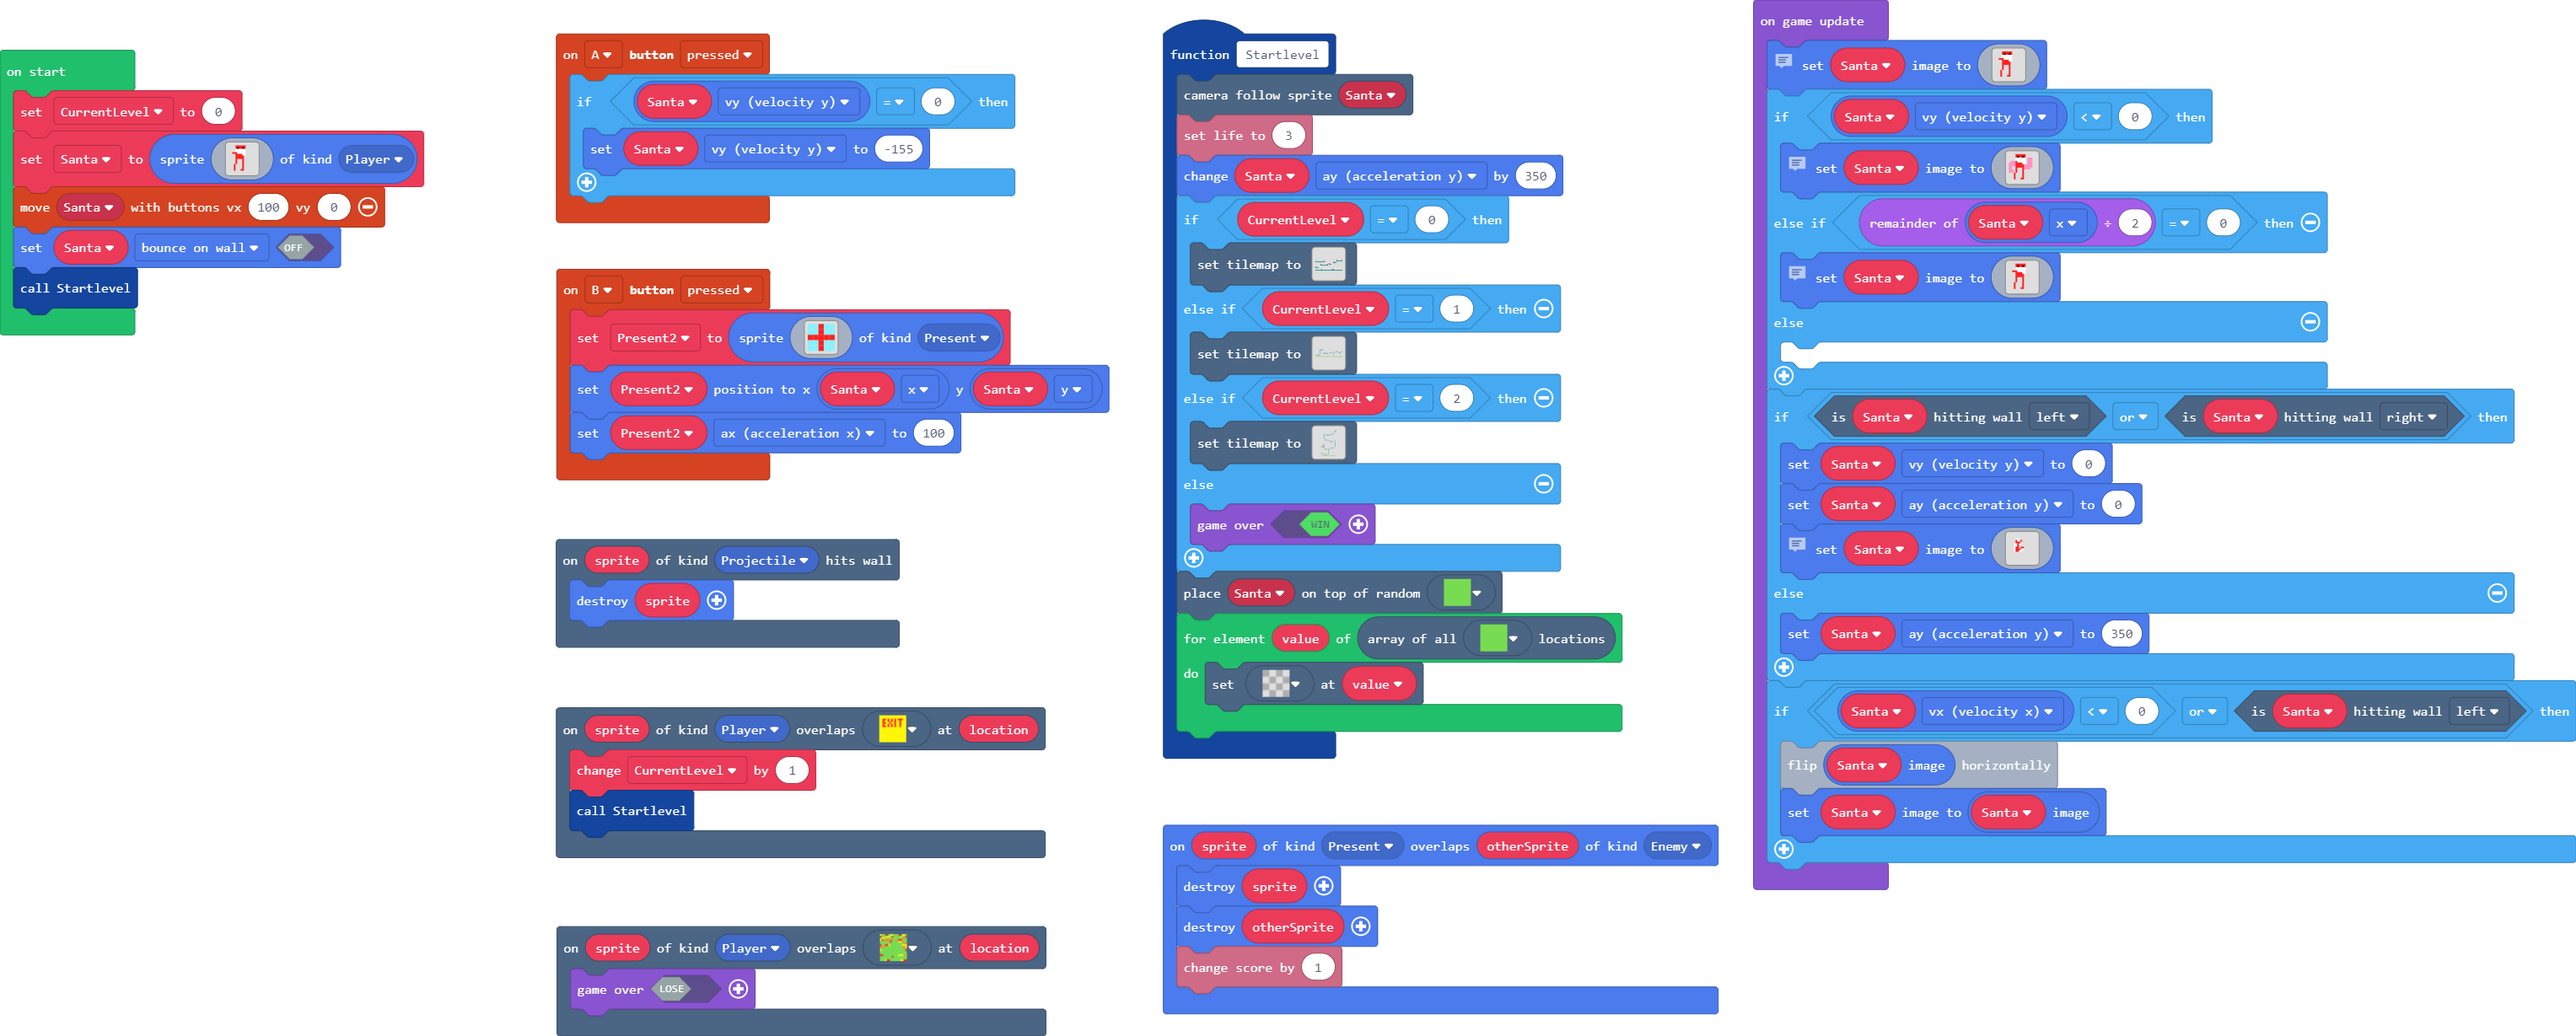
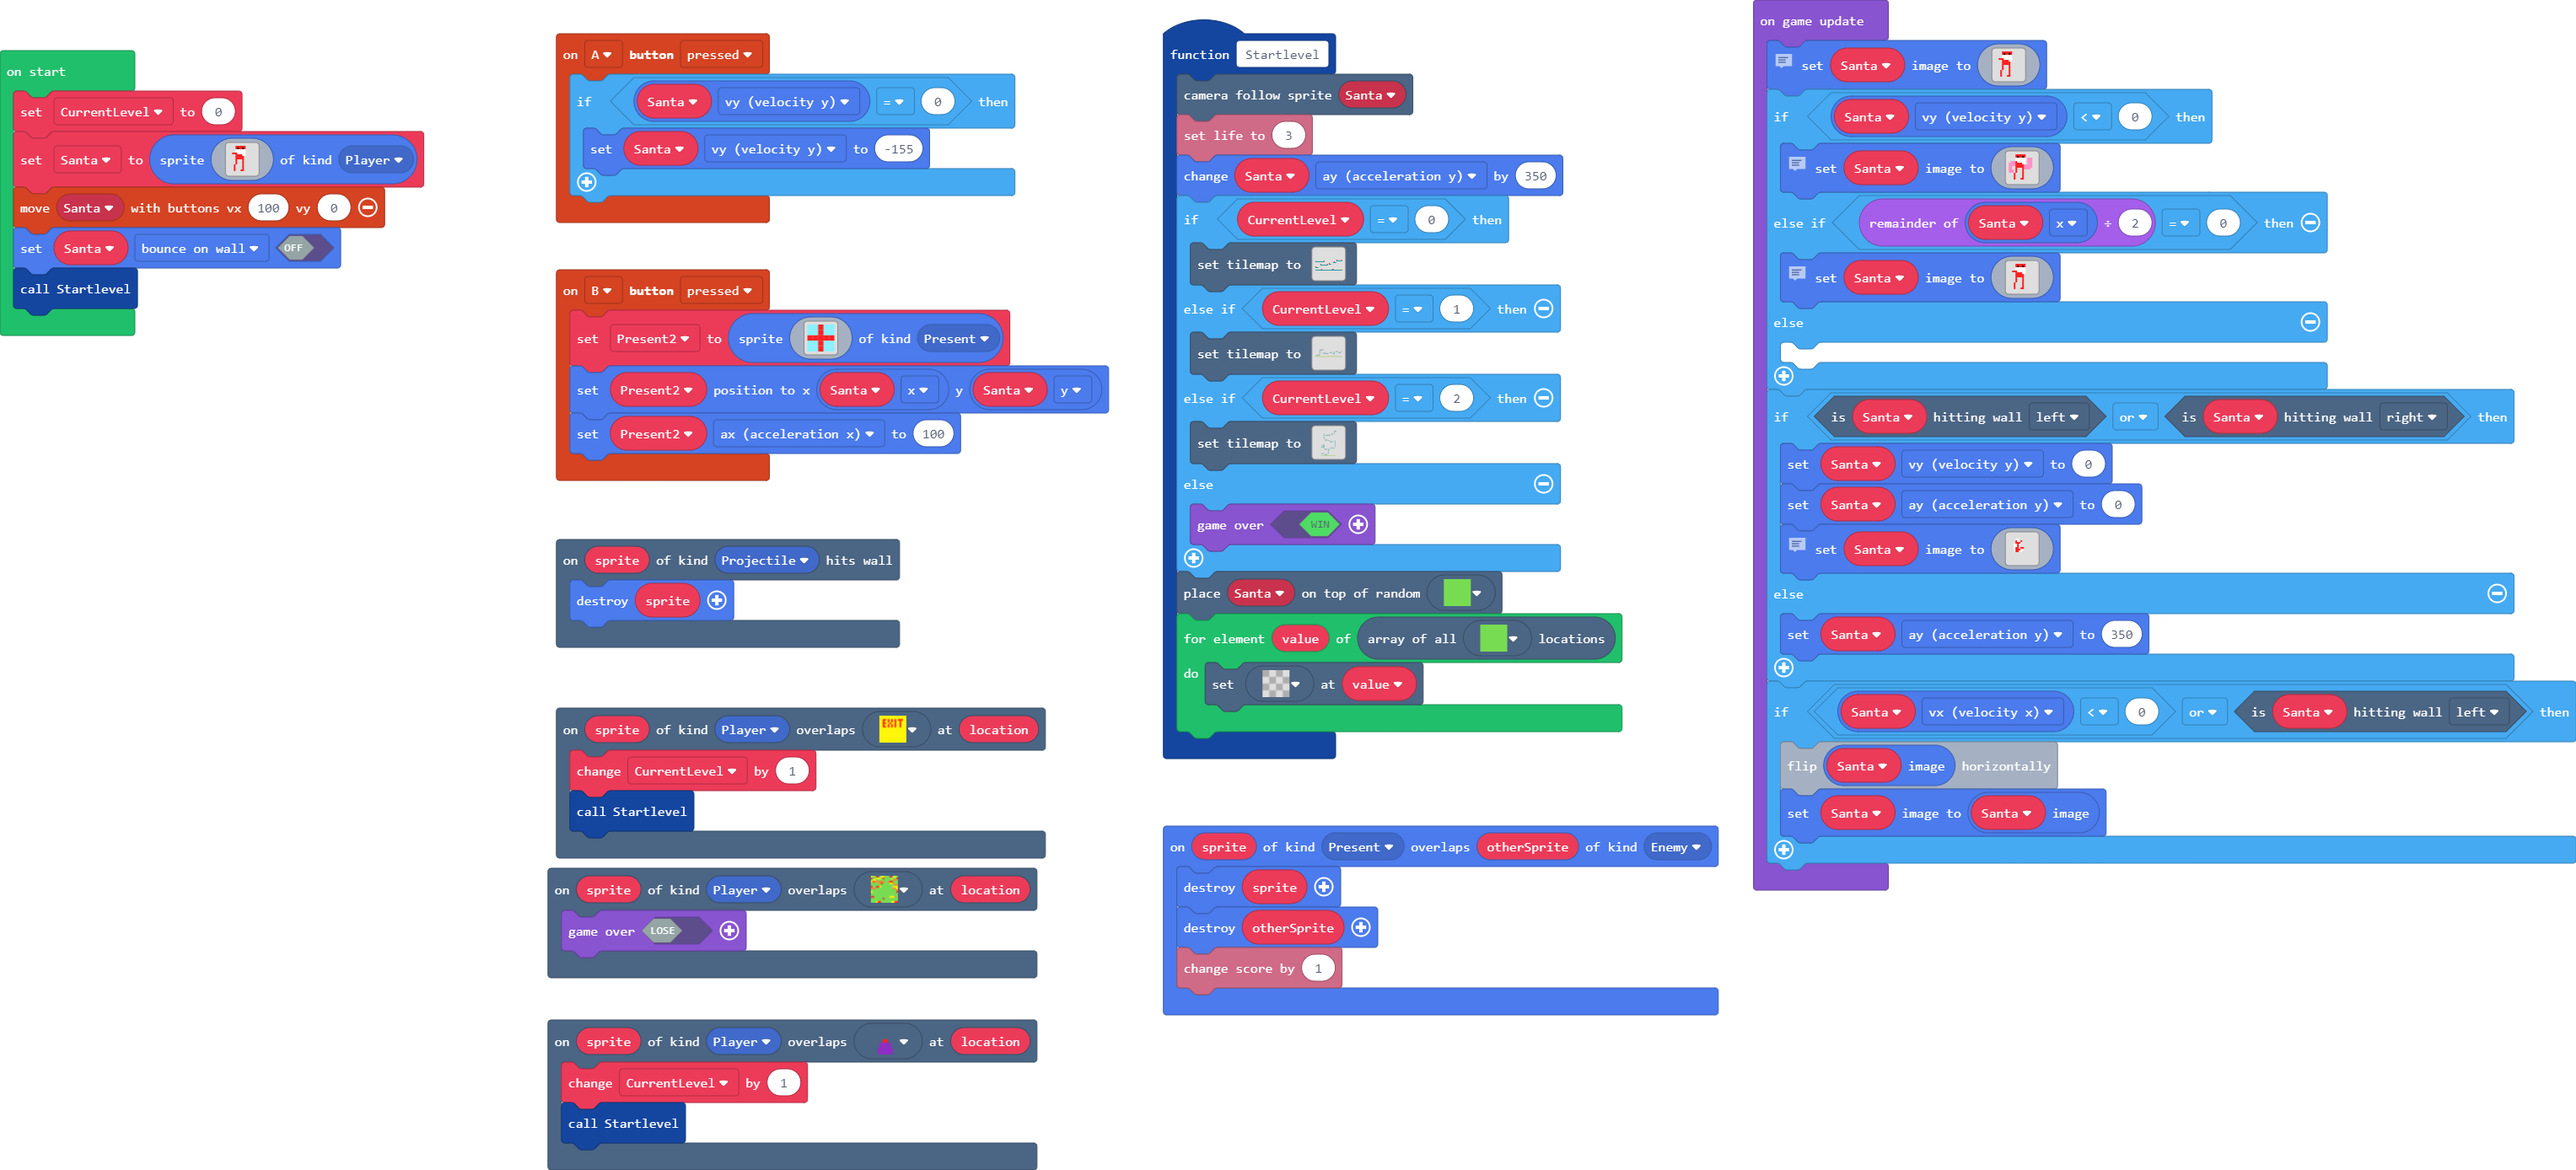
Update main.blocks, main.ts

diff --git a/main.ts b/main.ts
@@ -147,6 +147,10 @@ controller.B.onEvent(ControllerButtonEvent.Pressed, function () {
     Present2.setPosition(Santa.x, Santa.y)
     Present2.ax = 100
 })
+scene.onOverlapTile(SpriteKind.Player, myTiles.tile5, function (sprite, location) {
+    CurrentLevel += 1
+    Startlevel()
+})
 scene.onOverlapTile(SpriteKind.Player, myTiles.tile6, function (sprite, location) {
     game.over(false)
 })
